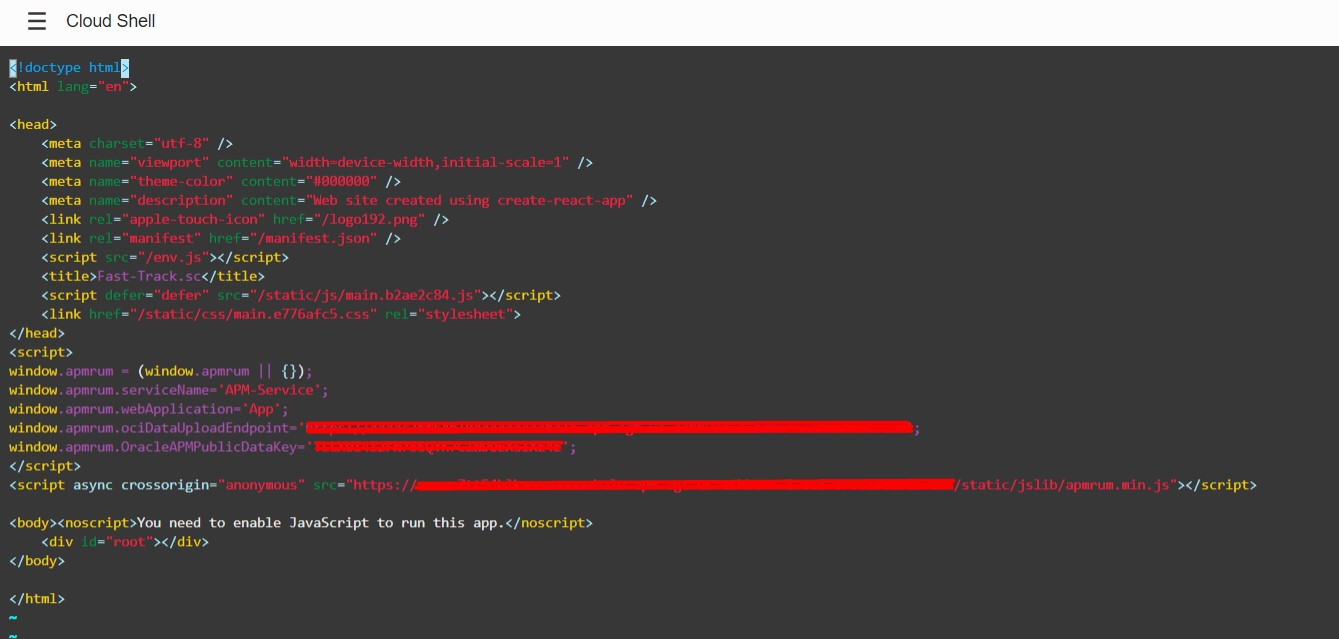
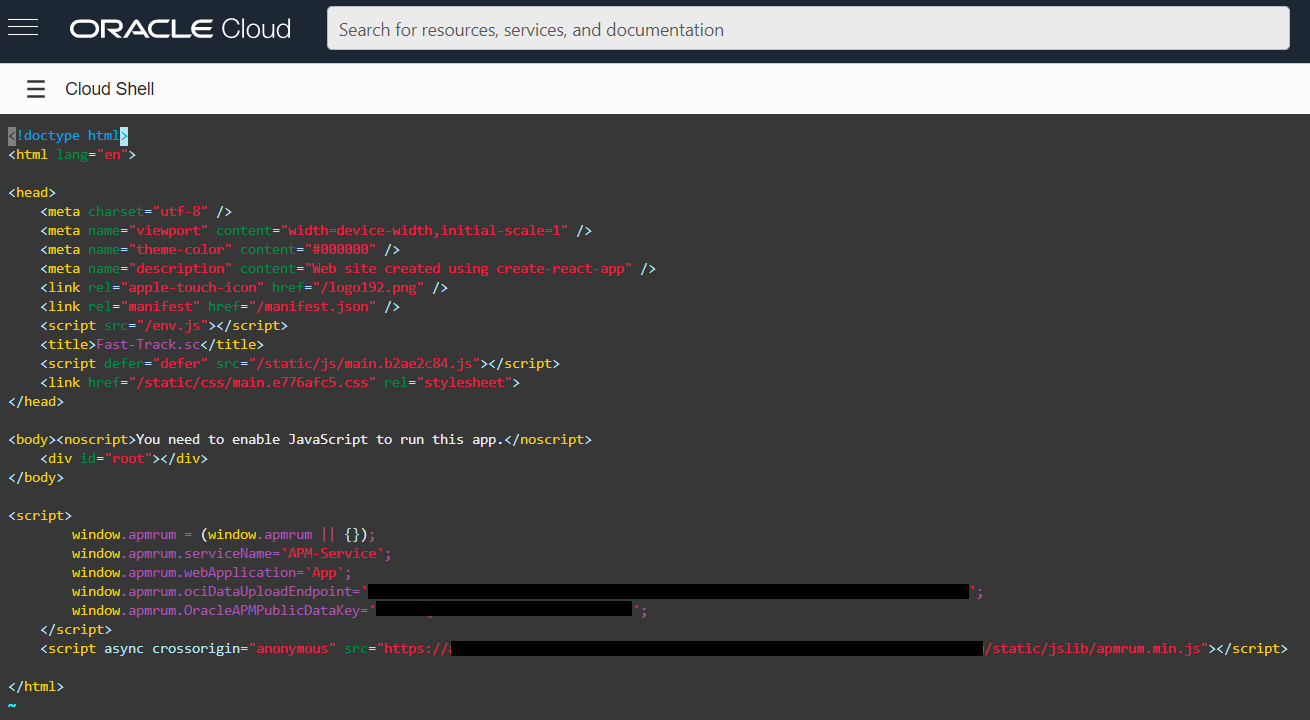
images

Changed region(s): [[0.0, 0.0, 1.0, 0.9812]]

diff --git a/3 - Deploying a web application on OCI/Tutorial.md b/3 - Deploying a web application on OCI/Tutorial.md
@@ -26,9 +26,23 @@ Após clonar a imagem finalizamos o primeiro tópico
 ## Adicionar as informações necessarias para utilizar o Application Performance Monitoring (APM)
 Para utilizar o APM na sua aplicação web você precisará salvar algumas informações de sua conta na cloud.
 1. Clique no menu lateral, vá até Observability & Management e depois clique em Application Performance Monitoring
+
+![](./images/img5.jpg)
+
 2. Clique no drop box ao lado de home e depois em **Administration**
+
+![](./images/img6.jpg)
+
 3. Selecione o Compartment que está suas aplicações e depois selecione o APM Domain que foi criado com o Terraform
+
+![](./images/img7.jpg)
+
 4. Copie o **Data Upload Endpoint** e o **auto_generated_public_datakey** em um bloco de notas
+
+![](./images/img8.jpg)
+
+![](./images/img9.jpg)
+
 5. Copie o conteúdo do bloco abaixo em outro bloco de notas e altere os campos:
 	-  < APM Browser> adicione um nome para sua aplicação, como "App web"
 	- < Web App Name> adicione um nome para sua aplicação, como "App web"
@@ -50,10 +64,16 @@ window.apmrum.OracleAPMPublicDataKey='<APM_Public_Datakey>';
 Para entrar na pasta do projeto que foi clonada no GitHub
 - `ls `
 Para listar os arquivos que contém na pasta
+
+![](./images/img10.jpg)
+
 - `vim index.html`
 Para editar o arquivo html e adicionar os scripts que você editou no passo anterior
-7. Pressione a tecla **"i"** para editar o arquivo, vá até o final da tag < /head > pressione **Enter** e cole os scripts editados que você copiou do seu bloco de notas
+7. Pressione a tecla **"i"** para editar o arquivo, vá até o final da tag < /body > pressione **Enter** e cole os scripts editados que você copiou do seu bloco de notas
 8. Pressione **Esc** e depois digite "**:wq!**" para salvar o arquivo
+
+![](./images/img11.jpg)
+
 Após finalizar este passo finalizamos o segundo tópico
 ## Passo: 3 Build na Imagem
 1. Clique no icone de perfil no canto superior direito, clique em Tenancy: nomeDaSuaTenacy
